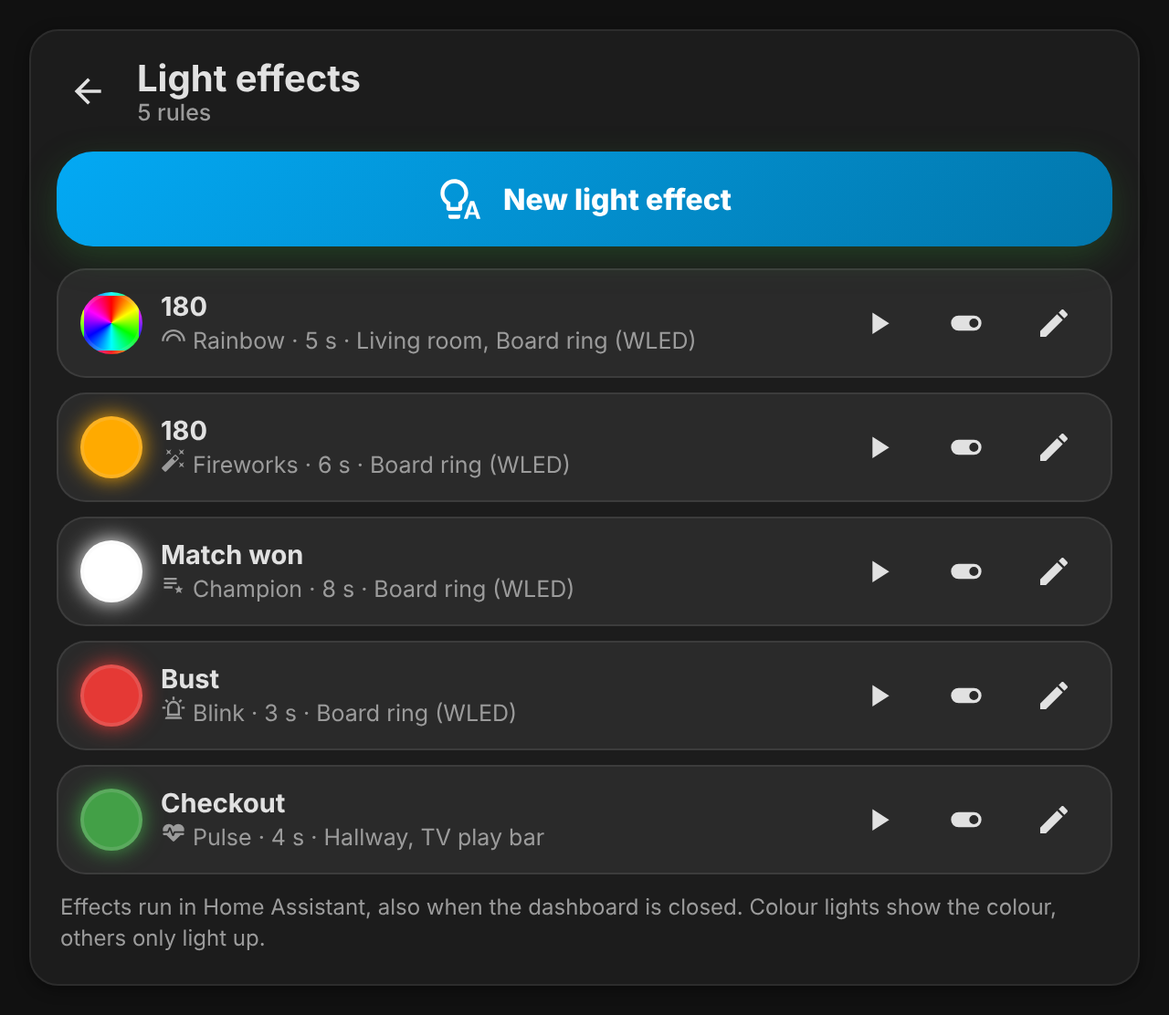
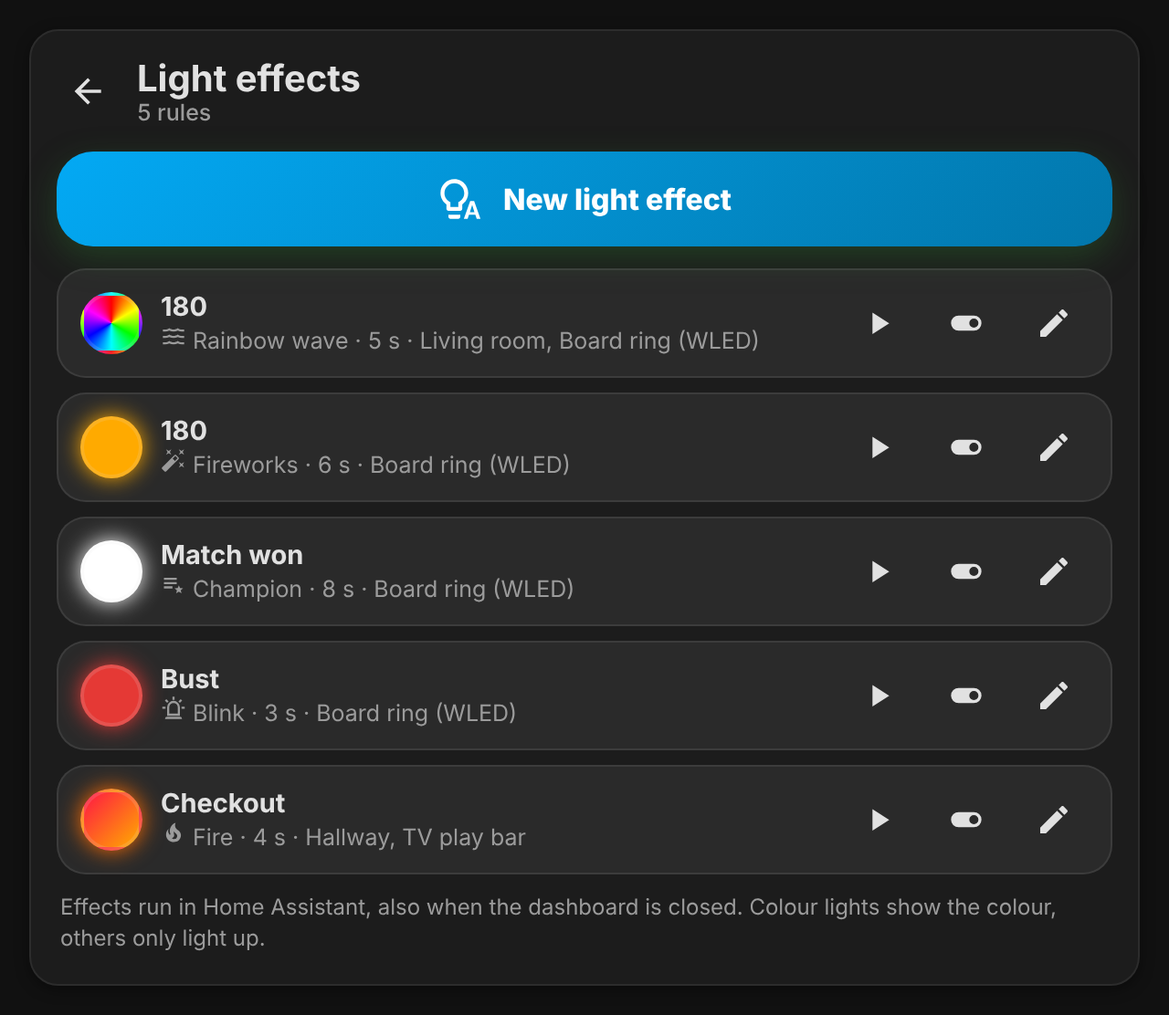
1.15.0: eleven new light effects
Heartbeat, strobe, fade out, two colours, rainbow wave, confetti, chaser,
sparkle, police, fire and thunderstorm; effect buttons as a grid.

Claude-Session: https://claude.ai/code/session_015s6FHMz7o3ZoDDgXQvdmwS

diff --git a/custom_components/autodarts/frontend/autodarts-cards.js b/custom_components/autodarts/frontend/autodarts-cards.js
@@ -77,7 +77,7 @@
       ranking_elo: 'Ranking', wins_losses: '{w} wins · {l} losses', gold: 'Gold', silver: 'Silver', bronze: 'Bronze', next_at: 'next at {n}', points_hint: 'Only darts detected by the board have a position.',
       b_n180: '180s', b_ton: '100+ visits', b_high_finish: 'High finish', b_kurzes_leg: 'Short leg (darts)', b_average: 'Best average', b_siege: 'Wins', b_spiele: 'Games', b_darts: 'Darts thrown',
       b_serie: 'Days in a row', b_nine_marks: 'Nine marks', b_shanghai: 'Shanghai', b_hole_in_one: 'Hole in one', b_allrounder: 'Allrounder (game types)',
-      d_overview: 'Dartboard scene with live darts, optional power on/off and shortcuts', d_game: 'Local games (X01, Cricket, training, party): lobby, bull-off, match, result', d_manager: 'Cameras, controls, system values, settings', d_players: 'Players, overall statistics, recent games', d_lights: 'Light effects on game events (180, bust, checkout …)', tab_board: 'Board', lights_title: 'Light effects', n_rules: '{n} rules', no_rules: 'No light effect yet. Choose an event, lights and an effect – the lights go back to how they were afterwards.', new_rule: 'New light effect', edit_rule: 'Edit light effect', trigger: 'Event', effect: 'Effect', color: 'Colour', brightness: 'Brightness', duration: 'Duration', seconds: '{n} s', lights: 'Lights', search: 'Search …', test: 'Test', active: 'active', inactive: 'off', delete: 'Delete', no_lights: 'Choose at least one light.', n_lights: '{n} lights', e_farbe: 'Colour', e_blinken: 'Blink', e_blitz: 'Flash', e_regenbogen: 'Rainbow', e_pulsieren: 'Pulse', e_lampe: 'Light effect', e_preset: 'WLED preset', fx_name: 'Effect of the light', preset_name: 'Preset', speed: 'Speed', intensity: 'Intensity', only_fx: 'Only lights with their own effects are shown (e.g. WLED, Hue).', only_wled: 'Only WLED lights are shown.', no_wled: 'No WLED device yet. Add it under Settings → Devices & services → WLED, then it shows up here.', no_fx: 'Choose a light first.', lights_hint: 'Effects run in Home Assistant, also when the dashboard is closed. Colour lights show the colour, others only light up.', ev_game_started: 'Game started', ev_dart: 'Every dart', ev_triple: 'Triple', ev_bull: 'Bull (25)', ev_bullseye: 'Bullseye', ev_visit: 'Every visit', ev_ton: '100+', ev_ton_forty: '140+', ev_one_eighty: '180', ev_no_score: 'No score', ev_bust: 'Bust', ev_three_in_a_bed: 'Three in a bed', ev_checkout: 'Checkout', ev_high_finish: 'High finish (100+)', ev_nine_darter: 'Nine-darter', ev_leg_won: 'Leg won', ev_set_won: 'Set won', ev_match_won: 'Match won', ev_nine_marks: 'Nine marks (Cricket)', ev_shanghai: 'Shanghai', ev_killer: 'Becomes killer', ev_eliminated: 'Player out', ev_halved: 'Halved (Halve-It)', ev_hole_in_one: 'Hole in one', ev_tournament_won: 'Tournament won'
+      d_overview: 'Dartboard scene with live darts, optional power on/off and shortcuts', d_game: 'Local games (X01, Cricket, training, party): lobby, bull-off, match, result', d_manager: 'Cameras, controls, system values, settings', d_players: 'Players, overall statistics, recent games', d_lights: 'Light effects on game events (180, bust, checkout …)', tab_board: 'Board', lights_title: 'Light effects', n_rules: '{n} rules', no_rules: 'No light effect yet. Choose an event, lights and an effect – the lights go back to how they were afterwards.', new_rule: 'New light effect', edit_rule: 'Edit light effect', trigger: 'Event', effect: 'Effect', color: 'Colour', brightness: 'Brightness', duration: 'Duration', seconds: '{n} s', lights: 'Lights', search: 'Search …', test: 'Test', active: 'active', inactive: 'off', delete: 'Delete', no_lights: 'Choose at least one light.', n_lights: '{n} lights', e_farbe: 'Colour', e_blinken: 'Blink', e_blitz: 'Flash', e_regenbogen: 'Rainbow', e_pulsieren: 'Pulse', e_herzschlag: 'Heartbeat', e_stroboskop: 'Strobe', e_ausblenden: 'Fade out', e_wechsel: 'Two colours', e_welle: 'Rainbow wave', e_konfetti: 'Confetti', e_lauflicht: 'Chaser', e_funkeln: 'Sparkle', e_polizei: 'Police', e_feuer: 'Fire', e_gewitter: 'Thunderstorm', color2: 'Second colour', fx_more: 'Several lights: wave, chaser, sparkle and police spread over them.', e_lampe: 'Light effect', e_preset: 'WLED preset', fx_name: 'Effect of the light', preset_name: 'Preset', speed: 'Speed', intensity: 'Intensity', only_fx: 'Only lights with their own effects are shown (e.g. WLED, Hue).', only_wled: 'Only WLED lights are shown.', no_wled: 'No WLED device yet. Add it under Settings → Devices & services → WLED, then it shows up here.', no_fx: 'Choose a light first.', lights_hint: 'Effects run in Home Assistant, also when the dashboard is closed. Colour lights show the colour, others only light up.', ev_game_started: 'Game started', ev_dart: 'Every dart', ev_triple: 'Triple', ev_bull: 'Bull (25)', ev_bullseye: 'Bullseye', ev_visit: 'Every visit', ev_ton: '100+', ev_ton_forty: '140+', ev_one_eighty: '180', ev_no_score: 'No score', ev_bust: 'Bust', ev_three_in_a_bed: 'Three in a bed', ev_checkout: 'Checkout', ev_high_finish: 'High finish (100+)', ev_nine_darter: 'Nine-darter', ev_leg_won: 'Leg won', ev_set_won: 'Set won', ev_match_won: 'Match won', ev_nine_marks: 'Nine marks (Cricket)', ev_shanghai: 'Shanghai', ev_killer: 'Becomes killer', ev_eliminated: 'Player out', ev_halved: 'Halved (Halve-It)', ev_hole_in_one: 'Hole in one', ev_tournament_won: 'Tournament won'
     },
     de: {
       dart: 'Dart', visit: 'Aufnahme', on: 'Einschalten', off: 'Ausschalten', off_q: 'Wirklich aus?', play: 'Spielen', manager: 'Board Manager', players: 'Spieler',
@@ -145,7 +145,7 @@
       ranking_elo: 'Rangliste', wins_losses: '{w} Siege · {l} Niederlagen', gold: 'Gold', silver: 'Silber', bronze: 'Bronze', next_at: 'nächste Stufe bei {n}', points_hint: 'Nur vom Board erkannte Darts haben eine Position.',
       b_n180: '180er', b_ton: '100+-Aufnahmen', b_high_finish: 'High Finish', b_kurzes_leg: 'Kurzes Leg (Darts)', b_average: 'Bester Average', b_siege: 'Siege', b_spiele: 'Spiele', b_darts: 'Geworfene Darts',
       b_serie: 'Tage in Folge', b_nine_marks: 'Neun Marks', b_shanghai: 'Shanghai', b_hole_in_one: 'Hole in One', b_allrounder: 'Allrounder (Spielarten)',
-      d_overview: 'Dartscheibe mit Live-Würfen, optional Ein/Aus und Abkürzungen', d_game: 'Lokale Spiele (X01, Cricket, Training, Party): Lobby, Bull-Off, Spiel, Ergebnis', d_manager: 'Kameras, Steuerung, Systemwerte, Einstellungen', d_players: 'Spieler, Gesamtstatistik, letzte Spiele', d_lights: 'Lichteffekte bei Spielereignissen (180, Überworfen, Checkout …)', tab_board: 'Board', lights_title: 'Lichteffekte', n_rules: '{n} Regeln', no_rules: 'Noch kein Lichteffekt. Wähle ein Ereignis, Lampen und einen Effekt – danach gehen die Lampen zurück, wie sie waren.', new_rule: 'Neuer Lichteffekt', edit_rule: 'Lichteffekt ändern', trigger: 'Ereignis', effect: 'Effekt', color: 'Farbe', brightness: 'Helligkeit', duration: 'Dauer', seconds: '{n} s', lights: 'Lampen', search: 'Suchen …', test: 'Testen', active: 'an', inactive: 'aus', delete: 'Löschen', no_lights: 'Wähle mindestens eine Lampe.', n_lights: '{n} Lampen', e_farbe: 'Farbe', e_blinken: 'Blinken', e_blitz: 'Aufblitzen', e_regenbogen: 'Regenbogen', e_pulsieren: 'Pulsieren', e_lampe: 'Lampen-Effekt', e_preset: 'WLED-Preset', fx_name: 'Effekt der Lampe', preset_name: 'Preset', speed: 'Tempo', intensity: 'Stärke', only_fx: 'Es werden nur Lampen mit eigenen Effekten gezeigt (z. B. WLED, Hue).', only_wled: 'Es werden nur WLED-Lampen gezeigt.', no_wled: 'Noch kein WLED-Gerät. Unter Einstellungen → Geräte & Dienste → WLED hinzufügen, dann erscheint es hier.', no_fx: 'Wähle zuerst eine Lampe.', lights_hint: 'Die Effekte laufen in Home Assistant, auch wenn das Dashboard zu ist. Farblampen zeigen die Farbe, andere leuchten nur auf.', ev_game_started: 'Spiel gestartet', ev_dart: 'Jeder Dart', ev_triple: 'Triple', ev_bull: 'Bull (25)', ev_bullseye: 'Bullseye', ev_visit: 'Jede Aufnahme', ev_ton: '100+', ev_ton_forty: '140+', ev_one_eighty: '180', ev_no_score: 'Kein Treffer', ev_bust: 'Überworfen', ev_three_in_a_bed: 'Three in a bed', ev_checkout: 'Checkout', ev_high_finish: 'High Finish (100+)', ev_nine_darter: 'Neun-Darter', ev_leg_won: 'Leg gewonnen', ev_set_won: 'Satz gewonnen', ev_match_won: 'Spiel gewonnen', ev_nine_marks: 'Neun Marks (Cricket)', ev_shanghai: 'Shanghai', ev_killer: 'Wird Killer', ev_eliminated: 'Spieler raus', ev_halved: 'Halbiert (Halve-It)', ev_hole_in_one: 'Hole in One', ev_tournament_won: 'Turnier gewonnen'
+      d_overview: 'Dartscheibe mit Live-Würfen, optional Ein/Aus und Abkürzungen', d_game: 'Lokale Spiele (X01, Cricket, Training, Party): Lobby, Bull-Off, Spiel, Ergebnis', d_manager: 'Kameras, Steuerung, Systemwerte, Einstellungen', d_players: 'Spieler, Gesamtstatistik, letzte Spiele', d_lights: 'Lichteffekte bei Spielereignissen (180, Überworfen, Checkout …)', tab_board: 'Board', lights_title: 'Lichteffekte', n_rules: '{n} Regeln', no_rules: 'Noch kein Lichteffekt. Wähle ein Ereignis, Lampen und einen Effekt – danach gehen die Lampen zurück, wie sie waren.', new_rule: 'Neuer Lichteffekt', edit_rule: 'Lichteffekt ändern', trigger: 'Ereignis', effect: 'Effekt', color: 'Farbe', brightness: 'Helligkeit', duration: 'Dauer', seconds: '{n} s', lights: 'Lampen', search: 'Suchen …', test: 'Testen', active: 'an', inactive: 'aus', delete: 'Löschen', no_lights: 'Wähle mindestens eine Lampe.', n_lights: '{n} Lampen', e_farbe: 'Farbe', e_blinken: 'Blinken', e_blitz: 'Aufblitzen', e_regenbogen: 'Regenbogen', e_pulsieren: 'Pulsieren', e_herzschlag: 'Herzschlag', e_stroboskop: 'Stroboskop', e_ausblenden: 'Ausblenden', e_wechsel: 'Zwei Farben', e_welle: 'Regenbogen-Welle', e_konfetti: 'Konfetti', e_lauflicht: 'Lauflicht', e_funkeln: 'Funkeln', e_polizei: 'Polizei', e_feuer: 'Feuer', e_gewitter: 'Gewitter', color2: 'Zweite Farbe', fx_more: 'Mehrere Lampen: Welle, Lauflicht, Funkeln und Polizei verteilen sich auf sie.', e_lampe: 'Lampen-Effekt', e_preset: 'WLED-Preset', fx_name: 'Effekt der Lampe', preset_name: 'Preset', speed: 'Tempo', intensity: 'Stärke', only_fx: 'Es werden nur Lampen mit eigenen Effekten gezeigt (z. B. WLED, Hue).', only_wled: 'Es werden nur WLED-Lampen gezeigt.', no_wled: 'Noch kein WLED-Gerät. Unter Einstellungen → Geräte & Dienste → WLED hinzufügen, dann erscheint es hier.', no_fx: 'Wähle zuerst eine Lampe.', lights_hint: 'Die Effekte laufen in Home Assistant, auch wenn das Dashboard zu ist. Farblampen zeigen die Farbe, andere leuchten nur auf.', ev_game_started: 'Spiel gestartet', ev_dart: 'Jeder Dart', ev_triple: 'Triple', ev_bull: 'Bull (25)', ev_bullseye: 'Bullseye', ev_visit: 'Jede Aufnahme', ev_ton: '100+', ev_ton_forty: '140+', ev_one_eighty: '180', ev_no_score: 'Kein Treffer', ev_bust: 'Überworfen', ev_three_in_a_bed: 'Three in a bed', ev_checkout: 'Checkout', ev_high_finish: 'High Finish (100+)', ev_nine_darter: 'Neun-Darter', ev_leg_won: 'Leg gewonnen', ev_set_won: 'Satz gewonnen', ev_match_won: 'Spiel gewonnen', ev_nine_marks: 'Neun Marks (Cricket)', ev_shanghai: 'Shanghai', ev_killer: 'Wird Killer', ev_eliminated: 'Spieler raus', ev_halved: 'Halbiert (Halve-It)', ev_hole_in_one: 'Hole in One', ev_tournament_won: 'Turnier gewonnen'
     }
   };
   const sprache = h => { const l = String((h && ((h.locale && h.locale.language) || h.language)) || navigator.language || 'en'); return l.slice(0, 2) === 'de' ? 'de' : 'en'; };
@@ -1976,8 +1976,11 @@ ha-card.fx-stoss{animation:fx-stoss .45s ease-out}
 .ll label{display:flex;align-items:center;gap:10px;margin:0;padding:8px;border-radius:10px;font-size:14px;font-weight:500;color:var(--primary-text-color);cursor:pointer}
 .ll label:hover{background:color-mix(in srgb,var(--primary-text-color) 6%,transparent)}
 .ll input{width:18px;height:18px;accent-color:var(--primary-color)}
-.ll small{margin-left:auto;color:var(--secondary-text-color);font-size:11.5px}`;
-  const LICHT_FX = { farbe: 'mdi:palette', blinken: 'mdi:alarm-light-outline', blitz: 'mdi:flash', regenbogen: 'mdi:looks', pulsieren: 'mdi:heart-pulse', lampe: 'mdi:auto-fix', preset: 'mdi:playlist-star' };
+.ll small{margin-left:auto;color:var(--secondary-text-color);font-size:11.5px}
+.seg.fxw{display:grid;grid-template-columns:repeat(auto-fill,minmax(130px,1fr))}
+.seg.fxw button{display:flex;align-items:center;gap:6px;padding:9px 10px;font-size:13.5px;text-align:left}`;
+  const LICHT_FX = { farbe: 'mdi:palette', blinken: 'mdi:alarm-light-outline', blitz: 'mdi:flash', regenbogen: 'mdi:looks', pulsieren: 'mdi:heart-pulse', herzschlag: 'mdi:heart-flash', stroboskop: 'mdi:flash-alert', ausblenden: 'mdi:weather-sunset-down', wechsel: 'mdi:swap-horizontal', welle: 'mdi:waves', konfetti: 'mdi:party-popper', lauflicht: 'mdi:dots-horizontal', funkeln: 'mdi:shimmer', polizei: 'mdi:car-emergency', feuer: 'mdi:fire', gewitter: 'mdi:weather-lightning', lampe: 'mdi:auto-fix', preset: 'mdi:playlist-star' };
+  const OHNE_FARBE = ['regenbogen', 'welle', 'konfetti', 'polizei', 'feuer'];
   const hex = c => '#' + (c || [255, 0, 0]).map(x => ('0' + (+x).toString(16)).slice(-2)).join('');
   const rgb = h => [1, 3, 5].map(i => parseInt(h.slice(i, i + 2), 16));
   class AutodartsLightsCard extends DartsSeite {
@@ -1996,7 +1999,8 @@ ha-card.fx-stoss{animation:fx-stoss .45s ease-out}
       let s = '<button class="start" style="background:linear-gradient(135deg,var(--primary-color),color-mix(in srgb,var(--primary-color) 70%,#000));min-height:52px;font-size:16px;margin:0 0 12px" data-act="neu"><ha-icon icon="mdi:lightbulb-auto-outline"></ha-icon>' + t('new_rule') + '</button>';
       if (!r.length) s += '<div class="leer">' + t('no_rules') + '</div>';
       r.forEach((x, i) => {
-        const rb = x.effekt === 'regenbogen', f = hex(x.farbe);
+        const MUSTER = { feuer: '#ff6d00;background:linear-gradient(135deg,#ff1744,#ffab00)', polizei: '#2962ff;background:linear-gradient(90deg,#f00 50%,#0028ff 50%)' };
+        const rb = OHNE_FARBE.includes(x.effekt) && !MUSTER[x.effekt], f = MUSTER[x.effekt] || (x.effekt === 'wechsel' ? hex(x.farbe) + ';background:linear-gradient(135deg,' + hex(x.farbe) + ' 50%,' + hex(x.farbe2 || [0, 0, 255]) + ' 50%)' : hex(x.farbe));
         s += '<div class="lr feld' + (x.aktiv ? '' : ' aus') + '"><span class="pk' + (rb ? ' rb' : '') + '" style="' + (rb ? '' : 'background:' + f + ';--lf:' + f) + '"></span><span class="tx"><b>' + esc(t('ev_' + x.ereignis)) + '</b><small><ha-icon icon="' + LICHT_FX[x.effekt] + '" style="--mdc-icon-size:14px"></ha-icon> ' + esc(x.effekt === 'lampe' && x.lampen_effekt ? x.lampen_effekt : x.effekt === 'preset' && x.preset ? x.preset : t('e_' + x.effekt)) + ' · ' + t('seconds', { n: x.dauer }) + ' · ' +
           esc(x.lichter.map(l => this._name(l)).join(', ')) + '</small></span>' +
           '<button data-act="test" data-i="' + i + '" title="' + t('test') + '"><ha-icon icon="mdi:play"></ha-icon></button>' +
@@ -2020,13 +2024,15 @@ ha-card.fx-stoss{animation:fx-stoss .45s ease-out}
       const liste = alle.filter(id => !such || e.lichter.includes(id) || this._name(id).toLowerCase().includes(such) || id.includes(such));
       this._modal('<h3>' + (e.i == null ? t('new_rule') : t('edit_rule')) + '</h3>' +
         '<label>' + t('trigger') + '</label><select data-f="ereignis">' + ev.map(x => '<option value="' + x + '"' + (x === e.ereignis ? ' selected' : '') + '>' + esc(t('ev_' + x)) + '</option>').join('') + '</select>' +
-        '<label>' + t('effect') + '</label><div class="seg">' + fx.map(x => '<button class="feld' + (x === e.effekt ? ' an' : '') + '" data-act="fx" data-v="' + x + '"><ha-icon icon="' + LICHT_FX[x] + '" style="--mdc-icon-size:18px"></ha-icon> ' + t('e_' + x) + '</button>').join('') + '</div>' +
+        '<label>' + t('effect') + '</label><div class="seg fxw">' + fx.map(x => '<button class="feld' + (x === e.effekt ? ' an' : '') + '" data-act="fx" data-v="' + x + '"><ha-icon icon="' + LICHT_FX[x] + '" style="--mdc-icon-size:18px"></ha-icon> ' + t('e_' + x) + '</button>').join('') + '</div>' +
         this._extra(e, wled, fxl, alle) +
-        (e.effekt === 'preset' ? '' : '<label>' + (e.effekt === 'regenbogen' ? t('brightness') : t('color') + ' · ' + t('brightness')) + '</label><div class="fz">' + (e.effekt === 'regenbogen' ? '' : '<input type="color" data-f="farbe" value="' + hex(e.farbe) + '">') +
+        (e.effekt === 'preset' ? '' : '<label>' + (OHNE_FARBE.includes(e.effekt) ? t('brightness') : t('color') + ' · ' + t('brightness')) + '</label><div class="fz">' + (OHNE_FARBE.includes(e.effekt) ? '' : '<input type="color" data-f="farbe" value="' + hex(e.farbe) + '">') +
+        (e.effekt === 'wechsel' ? '<input type="color" data-f="farbe2" title="' + t('color2') + '" value="' + hex(e.farbe2 || [0, 0, 255]) + '">' : '') +
         '<input type="range" min="1" max="100" data-f="helligkeit" value="' + e.helligkeit + '"><b class="hw">' + e.helligkeit + ' %</b></div>') +
         '<label>' + t('duration') + '</label><div class="stepper"><button class="feld" data-act="dauer" data-v="-1">−</button><b>' + t('seconds', { n: e.dauer }) + '</b><button class="feld" data-act="dauer" data-v="1">+</button></div>' +
         '<label>' + t('lights') + ' · ' + t('n_lights', { n: e.lichter.length }) + '</label><input type="search" data-f="such" placeholder="' + t('search') + '" value="' + esc(this._such || '') + '">' +
         (e.effekt === 'lampe' || e.effekt === 'preset' ? '<div class="klein">' + t(e.effekt === 'lampe' ? 'only_fx' : 'only_wled') + '</div>' : '') +
+        (['welle', 'lauflicht', 'funkeln', 'polizei'].includes(e.effekt) ? '<div class="klein">' + t('fx_more') + '</div>' : '') +
         '<div class="ll feld" style="margin-top:6px">' + liste.map(id => '<label><input type="checkbox" data-l="' + id + '"' + (e.lichter.includes(id) ? ' checked' : '') + '>' + esc(this._name(id)) + '<small>' + id.slice(6) + '</small></label>').join('') + '</div>' +
         (this._edFehler ? '<div class="klein" style="color:var(--red-color,#e53935)">' + t('no_lights') + '</div>' : '') +
         '<div class="mknoepfe">' + (e.i != null ? '<button class="feld" data-act="weg" data-lbl="' + t('delete') + '" style="margin-right:auto;--sr-f:var(--red-color,#e53935)"><span class="lbl">' + t('delete') + '</span></button>' : '') +
@@ -2035,6 +2041,7 @@ ha-card.fx-stoss{animation:fx-stoss .45s ease-out}
       box.querySelectorAll('[data-f]').forEach(f => f.addEventListener('input', () => {
         const k = f.dataset.f;
         if (k === 'farbe') e.farbe = rgb(f.value);
+        else if (k === 'farbe2') e.farbe2 = rgb(f.value);
         else if (k === 'helligkeit') { e.helligkeit = +f.value; box.querySelector('.hw').textContent = f.value + ' %'; }
         else if (k === 'ereignis') e.ereignis = f.value;
         else if (k === 'lampen_effekt' || k === 'preset') e[k] = f.value;
@@ -2070,7 +2077,7 @@ ha-card.fx-stoss{animation:fx-stoss .45s ease-out}
       return '';
     }
     _regel(e) {
-      const r = { id: e.id, ereignis: e.ereignis, lichter: e.lichter, effekt: e.effekt, farbe: e.farbe, helligkeit: e.helligkeit, dauer: e.dauer, aktiv: e.aktiv !== false };
+      const r = { id: e.id, ereignis: e.ereignis, lichter: e.lichter, effekt: e.effekt, farbe: e.farbe, farbe2: e.farbe2 || [0, 0, 255], helligkeit: e.helligkeit, dauer: e.dauer, aktiv: e.aktiv !== false };
       if (e.effekt === 'lampe') Object.assign(r, { lampen_effekt: e.lampen_effekt || '', tempo: e.tempo == null ? null : e.tempo, staerke: e.staerke == null ? null : e.staerke });
       if (e.effekt === 'preset') r.preset = e.preset || '';
       return r;

diff --git a/custom_components/autodarts/lichter.py b/custom_components/autodarts/lichter.py
@@ -9,9 +9,10 @@ light goes back to the state it had before.
 from __future__ import annotations
 
 import asyncio
-from collections.abc import Iterable
+from collections.abc import Callable, Iterable
 import colorsys
 import logging
+import random
 from typing import Any
 import uuid
 
@@ -26,7 +27,12 @@ from .const import EREIGNISSE
 
 _LOGGER = logging.getLogger(__name__)
 
-EFFEKTE = ["farbe", "blinken", "blitz", "regenbogen", "pulsieren", "lampe", "preset"]
+EFFEKTE = [
+    "farbe", "blinken", "blitz", "pulsieren", "herzschlag", "stroboskop", "ausblenden", "wechsel",
+    "regenbogen", "welle", "konfetti", "lauflicht", "funkeln", "polizei", "feuer", "gewitter",
+    "lampe", "preset",
+]
+OHNE_FARBE = {"regenbogen", "welle", "konfetti", "polizei", "feuer"}
 # "lampe" = an effect of the light itself (WLED, Hue …), "preset" = a WLED preset
 WLED_ZAHLEN = {"speed": "tempo", "segment_speed": "tempo", "intensity": "staerke", "segment_intensity": "staerke"}
 FARBMODI = {ColorMode.HS, ColorMode.XY, ColorMode.RGB, ColorMode.RGBW, ColorMode.RGBWW}
@@ -47,6 +53,9 @@ REGEL = vol.Schema({
     vol.Required("lichter"): vol.All([_licht], vol.Length(min=1)),
     vol.Optional("effekt", default="farbe"): vol.In(EFFEKTE),
     vol.Optional("farbe", default=[255, 0, 0]): vol.All(
+        vol.ExactSequence([vol.All(vol.Coerce(int), vol.Range(0, 255))] * 3), list
+    ),
+    vol.Optional("farbe2", default=[0, 0, 255]): vol.All(
         vol.ExactSequence([vol.All(vol.Coerce(int), vol.Range(0, 255))] * 3), list
     ),
     vol.Optional("helligkeit", default=100): vol.All(vol.Coerce(int), vol.Range(1, 100)),
@@ -89,6 +98,10 @@ def wled_uebersicht(hass: HomeAssistant) -> dict[str, dict[str, Any]]:
                 presets += [o for o in s.attributes["options"] if o not in presets]
         aus[e.entity_id] = {"presets": presets, "tempo": bool(teile.get("tempo") or teile.get("staerke"))}
     return aus
+
+
+def _bunt(ton: float) -> tuple[int, ...]:
+    return tuple(round(x * 255) for x in colorsys.hsv_to_rgb(ton % 1, 1, 1))
 
 
 def regel_pruefen(daten: dict[str, Any]) -> dict[str, Any]:
@@ -200,16 +213,97 @@ class Lichtshow:
         elif art == "regenbogen":
             ton = 0.0
             while noch():
-                farbe = tuple(round(x * 255) for x in colorsys.hsv_to_rgb(ton, 1, 1))
+                farbe = _bunt(ton)
                 await self._an(lichter, farbe, hell, TAKT * 1.2)
                 await asyncio.sleep(TAKT * 1.2)
                 ton = (ton + 1 / 8) % 1
-        else:  # pulsieren
+        elif art == "pulsieren":
             while noch():
                 await self._an(lichter, rgb, hell, 1)
                 await asyncio.sleep(1)
                 await self._an(lichter, rgb, max(1, hell // 8), 1)
                 await asyncio.sleep(1)
+        else:
+            await self._mehr(art, r, lichter, rgb, hell, dauer, noch)
+
+    async def _mehr(self, art: str, r: dict[str, Any], lichter: list[str], rgb: tuple[int, ...], hell: int,
+                    dauer: float, noch: Callable[[], bool]) -> None:
+        """The further effects; several of them give each light its own colour."""
+        schwach = max(1, hell // 8)
+        if art == "herzschlag":
+            while noch():
+                for h, pause in ((hell, TAKT * 0.4), (schwach, TAKT * 0.4), (hell, TAKT * 0.4), (schwach, TAKT * 2)):
+                    await self._an(lichter, rgb, h, 0)
+                    await asyncio.sleep(pause)
+        elif art == "stroboskop":
+            while noch():
+                await self._an(lichter, (255, 255, 255) if rgb == (0, 0, 0) else rgb, 100, 0)
+                await asyncio.sleep(TAKT * 0.6)
+                await self._aus(lichter)
+                await asyncio.sleep(TAKT * 0.6)
+        elif art == "ausblenden":
+            await self._an(lichter, rgb, hell, 0)
+            await asyncio.sleep(TAKT)
+            await self._an(lichter, rgb, 1, max(dauer - TAKT * 2, 0.5))
+            await asyncio.sleep(dauer - TAKT)
+        elif art == "wechsel":
+            farben = [rgb, tuple(r["farbe2"])]
+            i = 0
+            while noch():
+                await self._an(lichter, farben[i % 2], hell, TAKT)
+                await asyncio.sleep(TAKT * 2)
+                i += 1
+        elif art in ("welle", "konfetti", "feuer"):
+            ton = 0.0
+            while noch():
+                paare = []
+                for n, e in enumerate(lichter):
+                    if art == "welle":
+                        paare.append((e, _bunt(ton + n / len(lichter)), hell))
+                    elif art == "konfetti":
+                        paare.append((e, _bunt(random.random()), hell))
+                    else:  # flickering fire: orange to red, changing brightness
+                        paare.append((e, _bunt(random.uniform(0.0, 0.09)), max(1, round(hell * random.uniform(0.35, 1)))))
+                await self._einzeln(paare, TAKT * 0.8)
+                await asyncio.sleep(random.uniform(TAKT * 0.6, TAKT * 1.2) if art == "feuer" else TAKT * 1.2)
+                ton = (ton + 1 / 12) % 1
+        elif art == "polizei":
+            rot, blau = (255, 0, 0), (0, 40, 255)
+            i = 0
+            while noch():
+                await self._einzeln([(e, rot if (n + i) % 2 else blau, hell) for n, e in enumerate(lichter)], 0)
+                await asyncio.sleep(TAKT)
+                i += 1
+        elif art == "lauflicht":
+            await self._an(lichter, rgb, schwach, 0)
+            i = 0
+            while noch():
+                vorne = lichter[i % len(lichter)]
+                await self._an([vorne], rgb, hell, 0)
+                await asyncio.sleep(TAKT)
+                await self._an([vorne], rgb, schwach, TAKT * 0.5)
+                i += 1
+        elif art == "funkeln":
+            await self._an(lichter, rgb, schwach, 0)
+            while noch():
+                e = random.choice(lichter)
+                await self._an([e], rgb, hell, 0)
+                await asyncio.sleep(TAKT * 0.5)
+                await self._an([e], rgb, schwach, TAKT)
+                await asyncio.sleep(random.uniform(TAKT * 0.3, TAKT * 1.2))
+        else:  # gewitter: dim light, now and then a few bright flashes
+            await self._an(lichter, rgb, max(1, hell // 12), 0.3)
+            while noch():
+                await asyncio.sleep(random.uniform(TAKT * 1.5, TAKT * 4))
+                for _ in range(random.randint(1, 3)):
+                    await self._an(lichter, (255, 255, 255), 100, 0)
+                    await asyncio.sleep(TAKT * 0.3)
+                    await self._an(lichter, rgb, max(1, hell // 12), 0)
+                    await asyncio.sleep(TAKT * 0.4)
+
+    async def _einzeln(self, paare: list[tuple[str, tuple[int, ...], int]], uebergang: float) -> None:
+        """Each light its own colour, all at the same time."""
+        await asyncio.gather(*(self._an([e], farbe, h, uebergang) for e, farbe, h in paare))
 
     async def _lampen_effekt(self, r: dict[str, Any], lichter: list[str], rgb: tuple[int, ...], hell: int) -> None:
         """The light's own effect (e.g. WLED "Fireworks"); lights without it show the colour."""

diff --git a/tests/test_lichter.py b/tests/test_lichter.py
@@ -81,7 +81,7 @@ async def test_ws_ohne_eintrag(hass: HomeAssistant, geladen, hass_ws_client) -> 
     assert (await ws.receive_json())["result"]["regeln"] == []
 
 
-@pytest.mark.parametrize("effekt", ["farbe", "blinken", "blitz", "regenbogen", "pulsieren"])
+@pytest.mark.parametrize("effekt", [e for e in lichter_modul.EFFEKTE if e not in ("lampe", "preset")])
 async def test_effekte_und_zurueck(hass: HomeAssistant, geladen, lampen, effekt: str) -> None:
     show = geladen.runtime_data.lichter
     await _setzen(hass, [{"ereignis": "bust", "lichter": ["light.bunt", "light.weiss", "light.aus", "light.weg"],

diff --git a/README.md b/README.md
@@ -62,7 +62,7 @@
 | 🏟 **Tournament** | Knockout for 3–16 players with bracket, byes, next-match button and champion celebration. |
 | 📊 **Statistics** | Per player: average, first 9, checkout rate, highest score/finish, best leg, 180s, rating (Elo), hit map, trend, badges, streak, head to head, CSV export. |
 | ✨ **Effects** | Realistic one-shot animations for 180, bust, checkout, nine-darter, Shanghai, champion … switchable per device. |
-| 💡 **Light effects** | Lights blink, flash, pulse, show a colour or a rainbow on a 180, bust, checkout, leg won … – set up by click in a card, lights return to how they were. |
+| 💡 **Light effects** | 18 effects – blink, flash, pulse, heartbeat, strobe, fade out, two colours, rainbow, rainbow wave, confetti, chaser, sparkle, police, fire, thunderstorm, WLED effects and presets – on a 180, bust, checkout, leg won … – set up by click in a card, lights return to how they were. |
 | 📘 **Blueprints** | Awtrix display, caller on a speaker and push notifications – import with one click, fill in a form. |
 | 👆 **Without cameras** | Tap the drawn board or type `T20` + Enter. |
 | 🗣 **Voice** | Assist sentences in German, English and Russian: score, ranking, start, undo – also with an AI agent. |
@@ -325,7 +325,7 @@ The game runs completely inside Home Assistant and is stored in `.storage/autoda
 Let your lights celebrate with you – no YAML needed.
 
 1. Open **Autodarts → Light effects** in the sidebar (or add the card **Autodarts Light effects** to a dashboard).
-2. Tap **New light effect**, choose the event (180, 140+, bust, checkout, leg won, match won, tournament won …), the effect (**colour, blink, flash, rainbow, pulse, light effect, WLED preset**), colour, brightness and duration, and tick the lights.
+2. Tap **New light effect**, choose the event (180, 140+, bust, checkout, leg won, match won, tournament won …), the effect (**colour, blink, flash, pulse, heartbeat, strobe, fade out, two colours, rainbow, rainbow wave, confetti, chaser, sparkle, police, fire, thunderstorm, light effect, WLED preset**), colour, brightness and duration, and tick the lights.
 3. Tap **Test** to see it, then **Save**.
 
 Effects run in Home Assistant itself, also when no dashboard is open. Afterwards every light goes back to exactly how it was (on/off, brightness, colour). A new effect on the same light takes over smoothly. Colour lights show the colour, other lights just light up. The rules are stored by the integration and can also be set with the action `autodarts.lichteffekte_setzen`.
@@ -555,7 +555,7 @@ Private project, no outside contributions. The code follows the rules of the Hom
 - Turnier (K.-o.) für 3–16 Spieler mit Turnierbaum, Freilosen und Siegerfeier
 - Spielerseite mit Wertung (Elo), Serie, Trefferbild, Trend, Abzeichen (Bronze/Silber/Gold), direktem Vergleich, Rangliste und CSV-Export
 - Code nach den Regeln der Home-Assistant-Quality-Scale; die Board-Verbindung steckt direkt in der Integration (`board.py`), nichts muss nachinstalliert werden
-- Lichteffekte per Klick: bei 180, Überworfen, Checkout, Leg/Spiel gewonnen … blinken, aufblitzen, pulsieren, Farbe, Regenbogen, Effekte der Lampe (WLED, Hue, mit Tempo und Stärke) oder WLED-Presets – danach zurück wie vorher
+- Lichteffekte per Klick: bei 180, Überworfen, Checkout, Leg/Spiel gewonnen … 18 Effekte: blinken, aufblitzen, pulsieren, Herzschlag, Stroboskop, Ausblenden, zwei Farben, Regenbogen, Regenbogen-Welle, Konfetti, Lauflicht, Funkeln, Polizei, Feuer, Gewitter, Effekte der Lampe (WLED, Hue, mit Tempo und Stärke) oder WLED-Presets – danach zurück wie vorher
 - Blueprints mit Import-Knopf: Awtrix-Anzeige, Caller über Lautsprecher, Push bei Siegen
 - Ereignis-Entität `event.autodarts_board_game_event` (180, Bust, Checkout, Leg/Satz/Spiel gewonnen, Neun-Darter …) für Automationen
 - Effekte in der Spielkarte wie am echten Board: Pfeilflug, Funken, 180 mit Scheinwerfern und Konfetti, Überworfen mit Rissen, Game Shot, Feuerwerk beim Matchgewinn

diff --git a/CHANGELOG.md b/CHANGELOG.md
@@ -3,6 +3,13 @@
 Each version lists the changes in English and German. The release notes on GitHub
 and in the Home Assistant update dialog are taken from this file automatically.
 
+## 1.15.0
+
+- Eleven new light effects: heartbeat, strobe, fade out, two colours, rainbow wave, confetti, chaser, sparkle, police, fire and thunderstorm. Wave, chaser, sparkle and police spread over several lights. The effect buttons are now a tidy grid.
+
+**Deutsch**
+- Elf neue Lichteffekte: Herzschlag, Stroboskop, Ausblenden, zwei Farben, Regenbogen-Welle, Konfetti, Lauflicht, Funkeln, Polizei, Feuer und Gewitter. Welle, Lauflicht, Funkeln und Polizei verteilen sich auf mehrere Lampen. Die Effekt-Knöpfe stehen jetzt ordentlich im Raster.
+
 ## 1.14.1
 
 - Updates of the integration can now come as small patches for big files, so they arrive faster. If a patch does not fit, nothing is changed.
